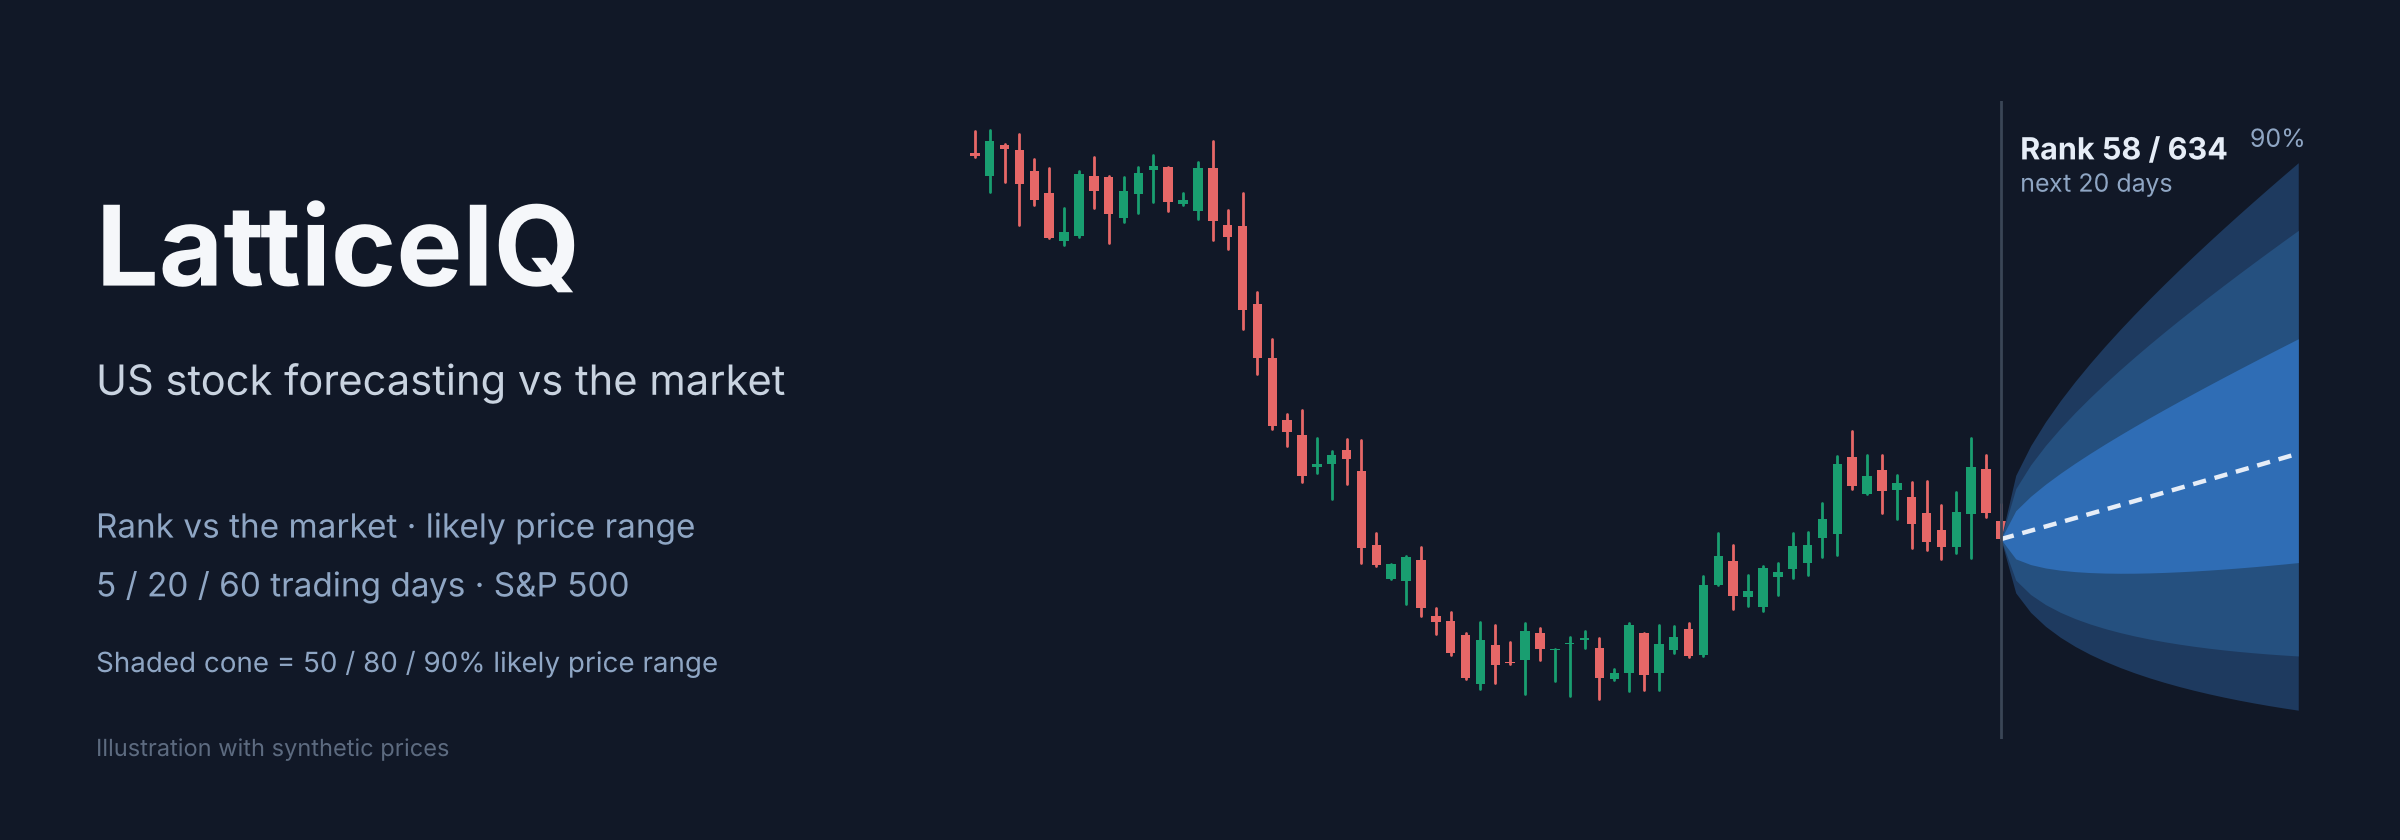
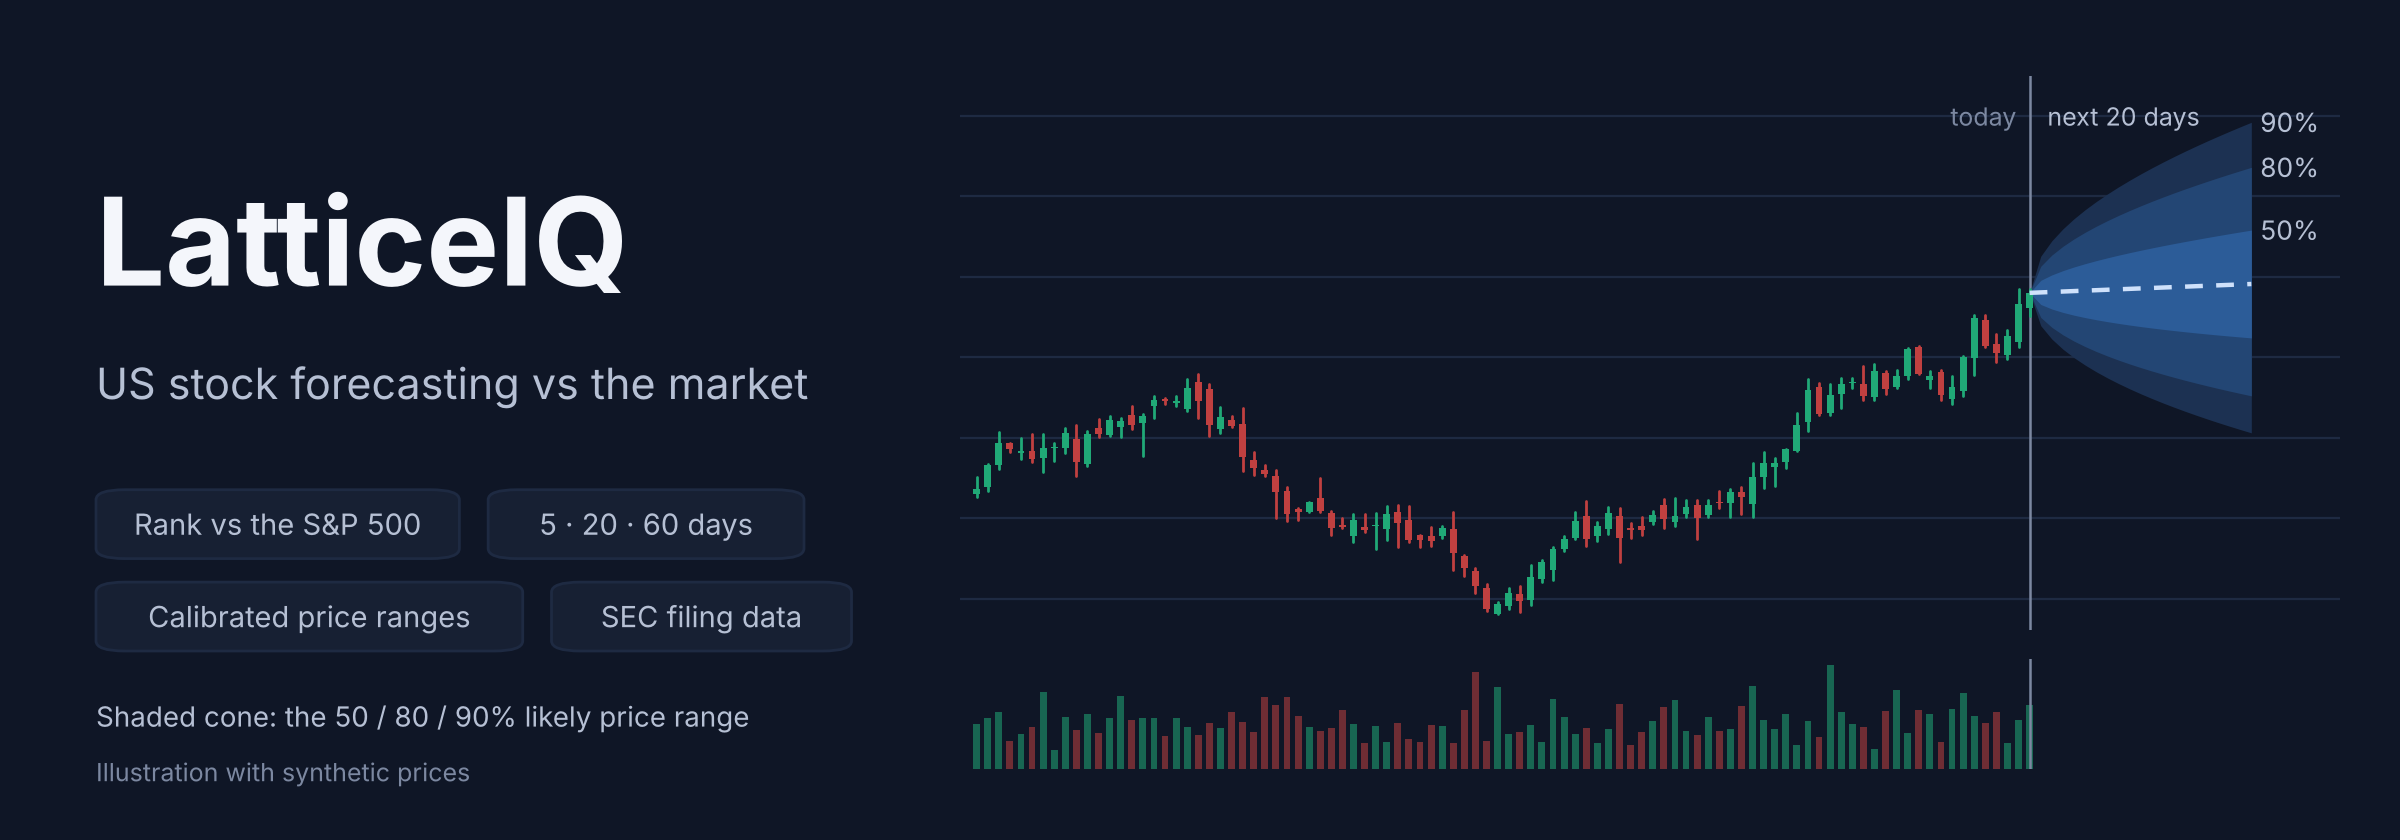
README: candlestick images, corrected-list results, market comparison

diff --git a/README.md b/README.md
@@ -44,6 +44,11 @@ For every S&P 500 stock on a given day, LatticeIQ produces:
 | **Official company news** *(in testing)* | SEC 8-K events (earnings, restatements, executive changes…) as a live feed |
 | **Drivers** | Which features pushed the forecast |
 
+<picture>
+  <source media="(prefers-color-scheme: dark)" srcset="docs/assets/forecast_card_dark.png">
+  <img alt="Example forecast: a candlestick chart with volume, a shaded 50/80/90% price cone for the next 20 trading days, and a panel with rank, expected return vs the market, price ranges and main drivers" src="docs/assets/forecast_card_light.png" width="100%">
+</picture>
+
 ## Results at a glance
 
 Walk-forward backtest on the corrected S&P 500 membership list: **727 stocks, test years 2012–2024, about 298,000 weekly forecasts**. For each test year the model is retrained only on earlier data, with a 60-day gap. The 2025–26 holdout is still locked.
@@ -182,6 +187,11 @@ On 12 Nov 2026 a bug was found: the stock list had been frozen at the January 20
 <picture>
   <source media="(prefers-color-scheme: dark)" srcset="docs/assets/bracket_coverage_dark.png">
   <img alt="80% range coverage by year for LatticeIQ vs a naive normal model" src="docs/assets/bracket_coverage_light.png" width="100%">
+</picture>
+
+<picture>
+  <source media="(prefers-color-scheme: dark)" srcset="docs/assets/horizons_dark.png">
+  <img alt="Average width of the 80% price range for a 100 dollar stock: plus or minus 4.7% over 5 days, 9.9% over 20 days, 17.6% over 60 days; the real price fell inside about 80% of the time at each horizon" src="docs/assets/horizons_light.png" width="100%">
 </picture>
 
 **Price ranges** (earlier 634-stock list): the 80% range contained the real price 79.8% / 80.3% / 80.2% of the time at 5 / 20 / 60 days (naive normal model: 79.3% / 77.5% / 76.5%), and the 90% range 90.0% / 90.4% / 90.8% (naive: 87.5% / 86.6% / 86.0%).

diff --git a/docs/PROGRESS.md b/docs/PROGRESS.md
@@ -156,6 +156,7 @@ Targets to beat: rank IC 0.03–0.08 with t > 2, hit rate 52–56%, DM p < 0.05 
 - README rewritten to the current state: corrected-list results first, "what we claim / don't claim" table, market comparison, 44 features, data-honesty section (index coverage, wrong-company audit), 33 tests, roadmap without stale items. Charts regenerated (rank IC by year now shows v1.0 on the corrected list).
 - `docs/results.md`: new section 0 with the corrected-list tables, by-year values and validation vs test. `docs/decisions.md`: v1.0 re-measured table added.
 - Run summaries saved in `results/20261113_*` (copied from the Kaggle logs).
+- README images: new hero banner (candles, volume, forecast cone), an example forecast card and a "how wide the ranges are" strip (light and dark). Candles are synthetic and labelled so; the range widths (±4.7% / ±9.9% / ±17.6%) are measured. Up/down candle colours checked for colour-blind separation.
 - Universe v2 rebuilt on the PC: 819 tickers, 801 stocks, 737 with price files; audit clean ("trading volume far below other members: none").
 - **Next:** `upload-data` → final v1.0 run on universe v2 → price ranges → add-on tests. Goal for every add-on: make the top-ranked group beat the market, not only the bottom group lag.
 
